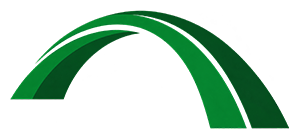
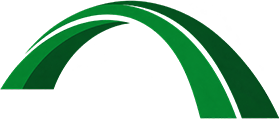
fix(marque): l arche en PNG detoure
Le fichier portait un fond blanc opaque : pose sur un fond sombre, il
laissait un rectangle blanc visible, et changer la couleur du support n y
changeait rien — le blanc du fichier se posait par-dessus.

La source est desormais pasrel-transparent.png, detoure, recadre au plus
pres (279x119, 86 % de pixels transparents, 0 % de blanc opaque).

CE QUE LA TRANSPARENCE NE REGLE PAS, mesure sur les fonds reels avec les
deux verts de l arche, rgb(4,132,46) et rgb(3,76,29) :

  banniere connexion, extremite claire   2,44 et 5,15
  banniere connexion, extremite foncee   1,59 et 1,33   invisible
  barre de la page d accueil             3,44 et 1,62   a moitie
  plaque blanche                         4,83 et 10,22  net

Une arche vert fonce a besoin d un fond clair pour exister. La plaque
blanche n est donc pas un defaut du fichier, c est ce qui rend le logo
visible. Elle reste jusqu a ce qu une version inversee existe.

Changed region(s): [[0.0, 0.0, 1.0, 1.0]]

diff --git a/components/CvzMark.tsx b/components/CvzMark.tsx
@@ -11,8 +11,9 @@ import Image from "next/image";
  * Deux fichiers, deux emplois :
  *
  *  - `pasrel-arche-cadree.png` : l'arche seule, sans le mot, recadrée au
- *    plus près. Le fichier d'origine `pasrel-arche.png` est un carré où
- *    l'arche occupe la moitié haute ; posée telle quelle, elle flottait. C'est le défaut, et
+ *    plus près, **sur fond transparent**. La source est
+ *    `pasrel-transparent.png` ; détourée, l'arche se pose directement sur
+ *    n'importe quel fond, sans le rectangle blanc qui trahissait le fichier. C'est le défaut, et
  *    c'est ce qu'il faut partout où le mot est déjà écrit à côté — sinon le
  *    nom apparaît deux fois. C'est aussi la seule version qui tienne en
  *    petit : à 84 px, le mot gravé dans le logo complet n'est plus lisible.
@@ -36,7 +37,7 @@ export function CvzMark({
       src={complet ? "/pasrel-logo.png" : "/pasrel-arche-cadree.png"}
       alt="PASRÈL"
       width={size}
-      height={complet ? size : Math.round(size * 0.465)}
+      height={complet ? size : Math.round(size * 0.4265)}
       priority
     />
   );
